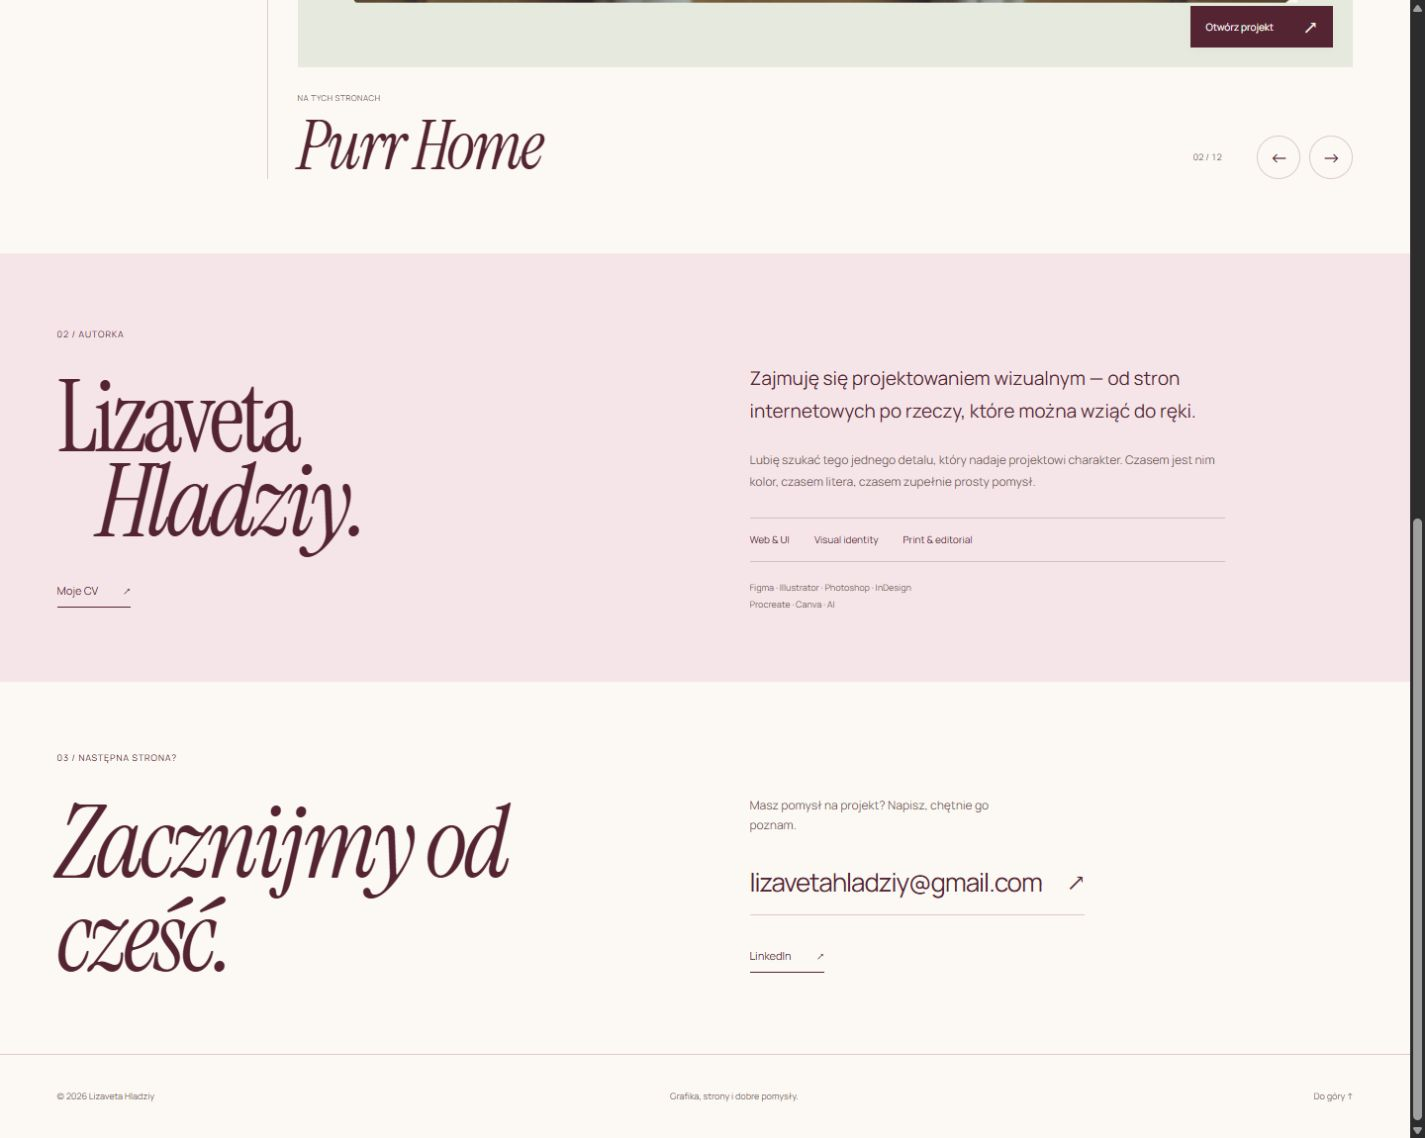
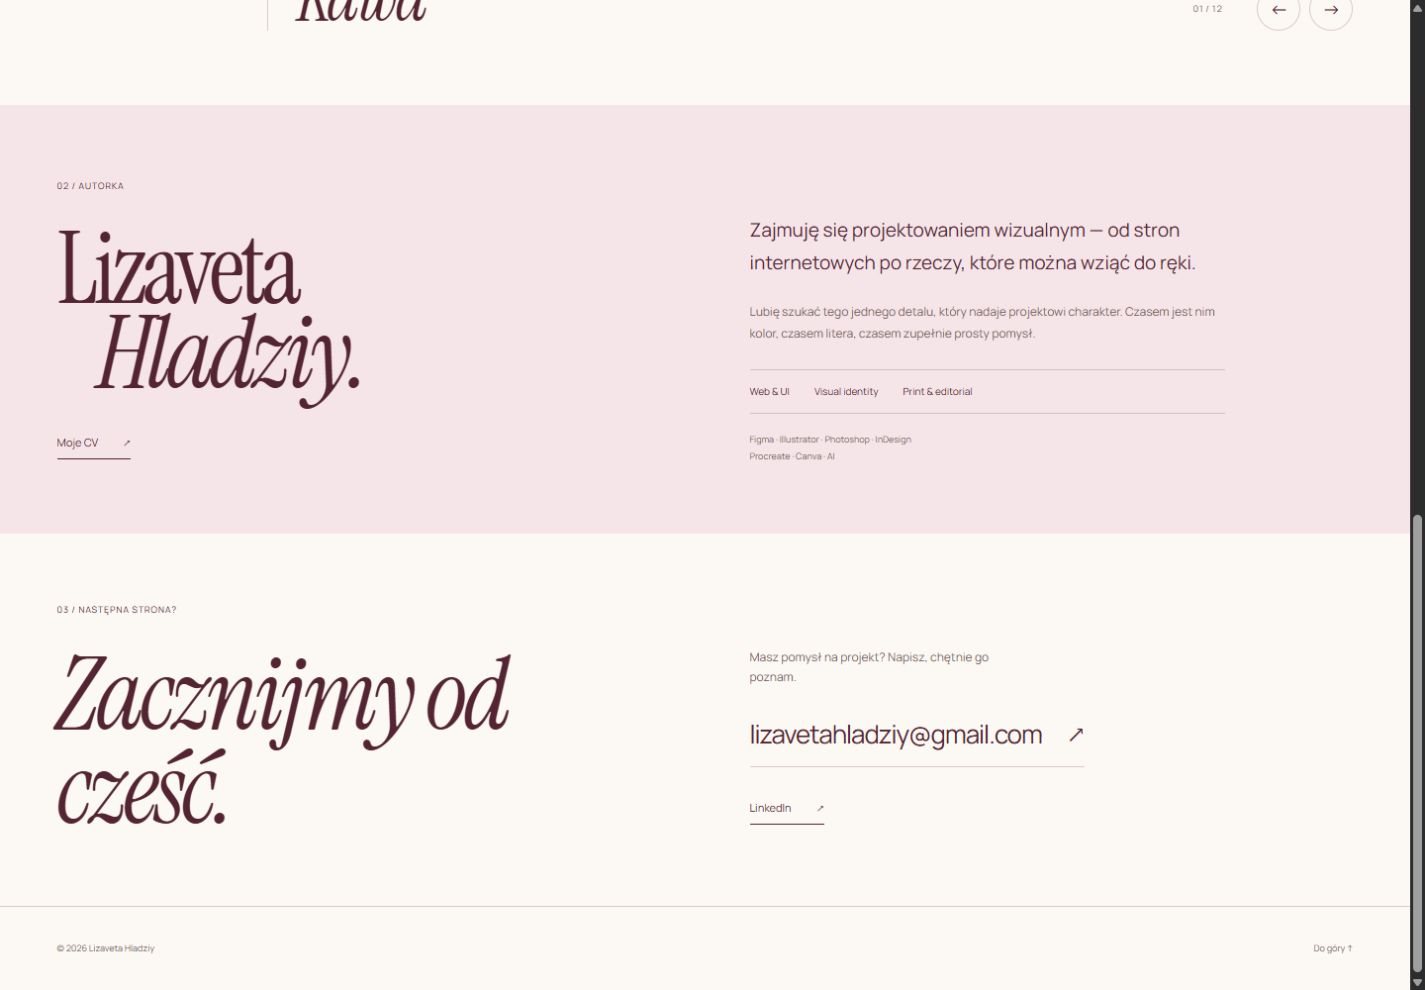
Prevent mixed cached portfolio assets and remove footer slogan

diff --git a/index.html b/index.html
@@ -6,10 +6,10 @@
   <meta name="theme-color" content="#f5e5e8">
   <meta name="description" content="Lizaveta Hladziy — portfolio projektantki wizualnej. Web design, identyfikacja wizualna, editorial i opakowania.">
   <title>Lizaveta Hladziy — Visual designer</title>
-  <link rel="icon" href="favicon.svg" type="image/svg+xml">
+  <link rel="icon" href="favicon.svg?v=8a6120cfb514" type="image/svg+xml">
   <link rel="preload" href="assets/fonts/InstrumentSerif-Italic.ttf" as="font" type="font/ttf" crossorigin>
-  <link rel="stylesheet" href="styles.css">
-  <script src="projects.js" defer></script><script src="app.js" defer></script>
+  <link rel="stylesheet" href="styles.css?v=e454fa004d1d">
+  <script src="projects.js?v=5ce9267fa352" defer></script><script src="app.js?v=411bfc9e0833" defer></script>
 </head>
 <body id="top">
   <a class="skip-link" href="#work" data-i18n="skip">Przejdź do projektów</a>
@@ -34,7 +34,7 @@
     <section class="about-section" id="about" aria-labelledby="about-title"><div class="about-inner page-width"><div class="about-heading"><span class="section-label" data-i18n="aboutEyebrow">02 / Autorka</span><h2 id="about-title">Lizaveta<br><em>Hladziy.</em></h2><a class="text-link" href="cv.pdf" target="_blank" rel="noopener"><span data-i18n="viewCv">Moje CV</span><span aria-hidden="true">↗</span></a></div><div class="about-copy"><p class="about-lead" data-i18n="aboutLead">Zajmuję się projektowaniem wizualnym — od stron internetowych po rzeczy, które można wziąć do ręki.</p><p class="about-text" data-i18n="aboutText">Lubię szukać tego jednego detalu, który nadaje projektowi charakter. Czasem jest nim kolor, czasem litera, czasem zupełnie prosty pomysł.</p><div class="expertise"><span>Web & UI</span><span>Visual identity</span><span>Print & editorial</span></div><p class="tools">Figma · Illustrator · Photoshop · InDesign<br>Procreate · Canva · AI</p></div></div></section>
     <section class="contact-section page-width" id="contact" aria-labelledby="contact-title"><div class="contact-heading"><p class="section-label" data-i18n="contactEyebrow">03 / Następna strona?</p><h2 id="contact-title" data-i18n="contactTitle">Zacznijmy od cześć.</h2></div><div class="contact-links"><p data-i18n="contactText">Masz pomysł na projekt? Napisz, chętnie go poznam.</p><a class="email-link" href="mailto:lizavetahladziy@gmail.com">lizavetahladziy@gmail.com<span aria-hidden="true">↗</span></a><a class="text-link" href="https://www.linkedin.com/in/lizaveta-hladziy-44b348405/" target="_blank" rel="noopener">LinkedIn <span aria-hidden="true">↗</span></a></div></section>
   </main>
-  <footer class="footer page-width"><span>© 2026 Lizaveta Hladziy</span><span data-i18n="footerNote">Grafika, strony i dobre pomysły.</span><a href="#top" data-i18n="backTop">Do góry ↑</a></footer>
+  <footer class="footer page-width"><span>© 2026 Lizaveta Hladziy</span><a href="#top" data-i18n="backTop">Do góry ↑</a></footer>
   <dialog class="project-dialog" id="project-dialog" aria-labelledby="project-title"><div class="dialog-toolbar"><span id="project-label"></span><button class="close-button" type="button" id="close-project"><span data-i18n="close">Zamknij</span> <span aria-hidden="true">×</span></button></div><div class="project-intro"><span class="eyebrow" id="project-category"></span><h2 id="project-title" tabindex="-1"></h2><p id="project-description"></p><div class="project-facts" id="project-facts"></div><a class="text-link" id="project-site" href="#" target="_blank" rel="noopener" hidden><span data-i18n="openSite">Otwórz stronę</span> ↗</a></div><div class="project-gallery" id="project-gallery"></div><div class="dialog-bottom"><span data-i18n="moreWork">Zobacz też</span><button type="button" class="text-link" id="next-project"><span data-i18n="next">Następny projekt</span> →</button></div></dialog>
   <dialog class="image-dialog" id="image-dialog" aria-label="Podgląd obrazu"><button type="button" class="close-button" id="close-image"><span data-i18n="close">Zamknij</span> <span aria-hidden="true">×</span></button><img id="full-image" alt=""></dialog>
 </body>

diff --git a/styles.css b/styles.css
@@ -221,7 +221,6 @@ dialog::backdrop { background: #31101fcc; backdrop-filter: blur(7px); }
   .contact-links > p { font-size: 11px; }
   .email-link { font-size: clamp(15px,4.4vw,22px); width: 100%; margin-bottom: 15px; }
   .footer { flex-wrap: wrap; gap: 4px 20px; padding-block: 13px; font-size: 8px; }
-  .footer > span:nth-child(2) { display: none; }
   .dialog-toolbar { padding: 10px 18px; }
   .project-intro { padding: 25px 6%; }
   .project-intro h2 { font-size: 39px; }

diff --git a/app.js b/app.js
@@ -40,7 +40,6 @@ const copy = {
     "contents": "Spis treści",
     "currentlyViewing": "Na tych stronach",
     "previous": "Poprzedni projekt",
-    "footerNote": "Grafika, strony i dobre pomysły."
   },
   "en": {
     "skip": "Skip to projects",
@@ -81,7 +80,6 @@ const copy = {
     "contents": "Table of contents",
     "currentlyViewing": "On these pages",
     "previous": "Previous project",
-    "footerNote": "Graphics, websites and good ideas."
   }
 };
 

diff --git a/tools/update_asset_versions.py b/tools/update_asset_versions.py
@@ -1,0 +1,41 @@
+"""Keep HTML asset URLs tied to their content, without a build dependency."""
+
+import argparse
+import hashlib
+from pathlib import Path
+import re
+
+ROOT = Path(__file__).resolve().parents[1]
+ASSETS = ('styles.css', 'projects.js', 'app.js', 'favicon.svg')
+
+
+def versioned_html(html):
+    for asset in ASSETS:
+        # GitHub serves LF; Windows checkouts may use CRLF for the same content.
+        content = (ROOT / asset).read_bytes().replace(b'\r\n', b'\n')
+        revision = hashlib.sha256(content).hexdigest()[:12]
+        pattern = r'((?:href|src)=")' + re.escape(asset) + r'(?:\?v=[a-f0-9]+)?(")'
+        html, count = re.subn(pattern, lambda m: f'{m[1]}{asset}?v={revision}{m[2]}', html)
+        if count != 1:
+            raise ValueError(f'Expected one HTML reference to {asset}, found {count}')
+    return html
+
+
+def main():
+    parser = argparse.ArgumentParser(description=__doc__)
+    parser.add_argument('--check', action='store_true', help='Fail if index.html contains stale asset URLs')
+    args = parser.parse_args()
+    path = ROOT / 'index.html'
+    current = path.read_text(encoding='utf-8')
+    updated = versioned_html(current)
+    if args.check:
+        if current != updated:
+            parser.exit(1, 'Asset URLs are stale. Run python tools/update_asset_versions.py\n')
+        print('Asset URL versions match all four files.')
+    else:
+        path.write_text(updated, encoding='utf-8', newline='\n')
+        print('Updated asset URL versions in index.html.')
+
+
+if __name__ == '__main__':
+    main()

diff --git a/docs/redesign/verification.md b/docs/redesign/verification.md
@@ -32,3 +32,11 @@ These are local branch checks. Publication requires merging the PR and successfu
 ![About and contact](contact.png)
 
 ![Mobile catalogue](mobile.png)
+
+## Cache regression fix — 2026-10-26
+
+GitHub Pages serves the static assets with `Cache-Control: max-age=600`. The catalogue HTML could therefore be combined with the previous design's cached, unversioned CSS and JavaScript. That combination reproduced the reported screenshot: Arial heading, no catalogue layout, 12 old cards and old translated copy.
+
+The HTML now references CSS, JavaScript, project data and the favicon with a SHA-256 content version in their URL. `tools/update_asset_versions.py` updates the versions, and its `--check` mode detects stale references. Hashing normalizes CRLF to LF so Windows checkouts and GitHub Pages agree.
+
+A local HTTP regression fixture first served and cached the original assets. The unversioned catalogue reproduced the failure (`display: block`, zero index buttons, 12 old cards). With that cache still present, the versioned catalogue loaded correctly (`display: grid`, Instrument Serif, 12 index buttons, zero old cards). The footer now contains only copyright and the back-to-top link in both languages; the slogan element and translations are removed.

diff --git a/README.md b/README.md
@@ -16,3 +16,14 @@ Run `python -m http.server 8765 --bind 127.0.0.1` from this directory, then open
 No build, package installation, external font service or third-party JavaScript is required. The original media, `cv.pdf` and `CNAME` are preserved. The publishing branch must receive the changes before the public site updates.
 
 See [verification and previews](docs/redesign/verification.md).
+
+## Before publishing changes
+
+After editing CSS, JavaScript, project data or the favicon, run:
+
+```sh
+python tools/update_asset_versions.py
+python tools/update_asset_versions.py --check
+```
+
+The helper writes content-based versions into the stylesheet, script and favicon URLs in `index.html`. Commit that HTML update with the asset changes. This prevents a returning browser from combining new markup with an older cached CSS or JavaScript file. No Python is needed on GitHub Pages or in the browser.
